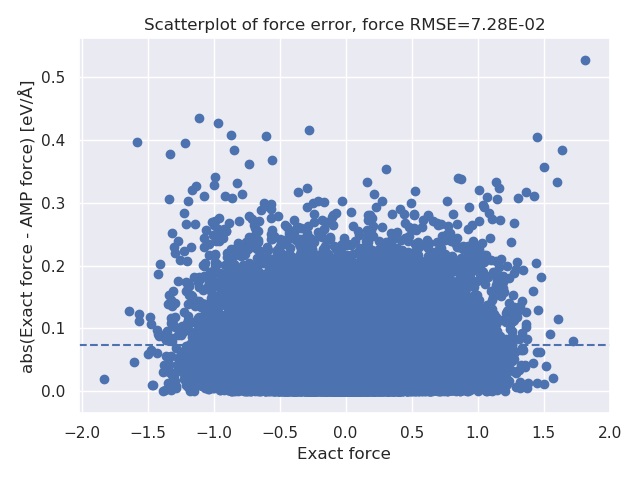
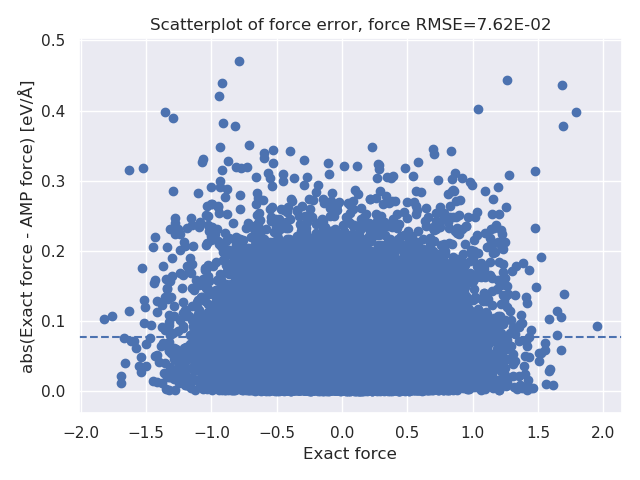
Final plots?

diff --git a/force-training/main.py b/force-training/main.py
@@ -16,8 +16,8 @@ if __name__ == "__main__":
     elements = ["Cu"]
     size = (3, 3, 3)
     temp = 500
-    n_train = int(5e4)
-    n_test = int(1e4)
+    n_train = int(2e4)
+    n_test = int(8e3)
     save_interval = 100
     train_traj = "training.traj"
     test_traj = "test.traj"
